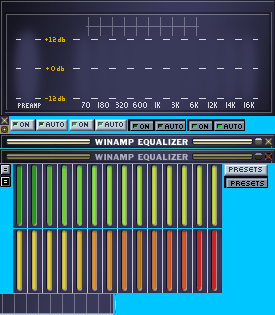
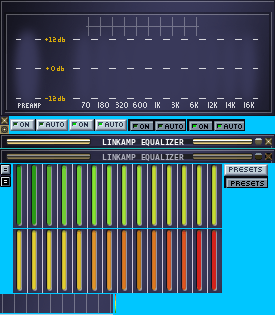
Rebrand classic skin sprites as Linkamp

Changed region(s): [[0.3491, 0.4286, 0.6982, 0.5143]]

diff --git a/src/view-playlist/classicplaylistwindow.cpp b/src/view-playlist/classicplaylistwindow.cpp
@@ -8,7 +8,6 @@
 #include <QFileDialog>
 #include <QFont>
 #include <QFontMetrics>
-#include <QLinearGradient>
 #include <QMenu>
 #include <QMouseEvent>
 #include <QPainter>
@@ -66,20 +65,6 @@ void ClassicPlaylistWindow::paintEvent(QPaintEvent *event)
         painter.drawPixmap(QRect(x, y, width, height), sprite,
                            QRect(sourceX, sourceY, sourceWidth, sourceHeight));
     };
-    auto drawTitle = [&painter](const QRect &titleRect, int fontPixels) {
-        QLinearGradient gradient(titleRect.topLeft(), titleRect.bottomLeft());
-        gradient.setColorAt(0.0, QColor(55, 53, 65));
-        gradient.setColorAt(1.0, QColor(28, 27, 37));
-        painter.fillRect(titleRect, gradient);
-        QFont titleFont(QStringLiteral("DejaVu Sans Mono"));
-        titleFont.setPixelSize(fontPixels);
-        titleFont.setBold(true);
-        titleFont.setStyleStrategy(QFont::NoAntialias);
-        painter.setFont(titleFont);
-        painter.setPen(Qt::white);
-        painter.drawText(titleRect, Qt::AlignCenter, QStringLiteral("LINKAMP PLAYLIST"));
-    };
-
     // Pledit.bmp is a sprite sheet; assemble its title bar and tiled frame
     // using the original sprite rectangles.
     if (m_windowShaded) {
@@ -100,7 +85,6 @@ void ClassicPlaylistWindow::paintEvent(QPaintEvent *event)
         blit(x, 0, 50, 14, 99, 42, 50, 14);
         blit(width() - 11, 3, 9, 9, 167, 3, 9, 9);
         blit(width() - 20, 3, 9, 9, 128, 45, 9, 9);
-        drawTitle(QRect(25, 0, width() - 50, 14), 7);
         return;
     }
 
@@ -137,8 +121,6 @@ void ClassicPlaylistWindow::paintEvent(QPaintEvent *event)
     blit(x, 0, 25, 20, 153, 0, 25, 20);
     blit(width() - 11, 3, 9, 9, 167, 3, 9, 9);
     blit(width() - 20, 3, 9, 9, 158, 3, 9, 9);
-    drawTitle(QRect(25, 0, 100, 20), 8);
-
     const int trackHeight = height() - 20 - 38;
     int borderY = 20;
     while (borderY + 29 <= 20 + trackHeight) {

diff --git a/src/view-basewindow/titlebar.cpp b/src/view-basewindow/titlebar.cpp
@@ -2,7 +2,6 @@
 #include "ui_titlebar.h"
 #include "scale.h"
 #include <QMouseEvent>
-#include <QLinearGradient>
 #include <QPainter>
 
 #include <utility>
@@ -117,17 +116,6 @@ void TitleBar::paintEvent(QPaintEvent *event)
     QPainter painter(this);
     const int titleY = window()->isActiveWindow() ? 134 : 149;
     painter.drawPixmap(rect(), sprite, QRect(0, titleY, 275, 14));
-    QLinearGradient titleGradient(0, 0, 0, 14);
-    titleGradient.setColorAt(0.0, QColor(78, 76, 86));
-    titleGradient.setColorAt(1.0, QColor(40, 39, 49));
-    painter.fillRect(QRect(87, 0, 101, 14), titleGradient);
-    QFont titleFont(QStringLiteral("DejaVu Sans Mono"));
-    titleFont.setPixelSize(6);
-    titleFont.setBold(true);
-    titleFont.setStyleStrategy(QFont::NoAntialias);
-    painter.setFont(titleFont);
-    painter.setPen(Qt::white);
-    painter.drawText(QRect(87, 0, 101, 14), Qt::AlignCenter, QStringLiteral("LINKAMP EQUALIZER"));
     painter.drawPixmap(254, 3, 9, 9, sprite, 254, 137, 9, 9);
     painter.drawPixmap(264, 3, 9, 9, sprite, 0, 116, 9, 9);
 }

diff --git a/src/view-basewindow/mainwindow.cpp b/src/view-basewindow/mainwindow.cpp
@@ -95,7 +95,6 @@ MainWindow::MainWindow(QWidget *parent)
     playerWindow->setAttribute(Qt::WidgetAttribute::WA_StyledBackground,  true);
     m_playerBodyContainer = playerWindow->ui->bodyContainer;
     if (auto *mainTitleBar = playerWindow->findChild<TitleBar *>(QStringLiteral("titlebarContainer"))) {
-        mainTitleBar->setTitle(QStringLiteral("LINKAMP"));
         connect(mainTitleBar, &TitleBar::menuClicked, this, &MainWindow::showMenu);
         connect(mainTitleBar, &TitleBar::shadeClicked, this, &MainWindow::toggleWindowShade);
         connect(mainTitleBar, &TitleBar::moveStarted, this, [this](bool detach) {
